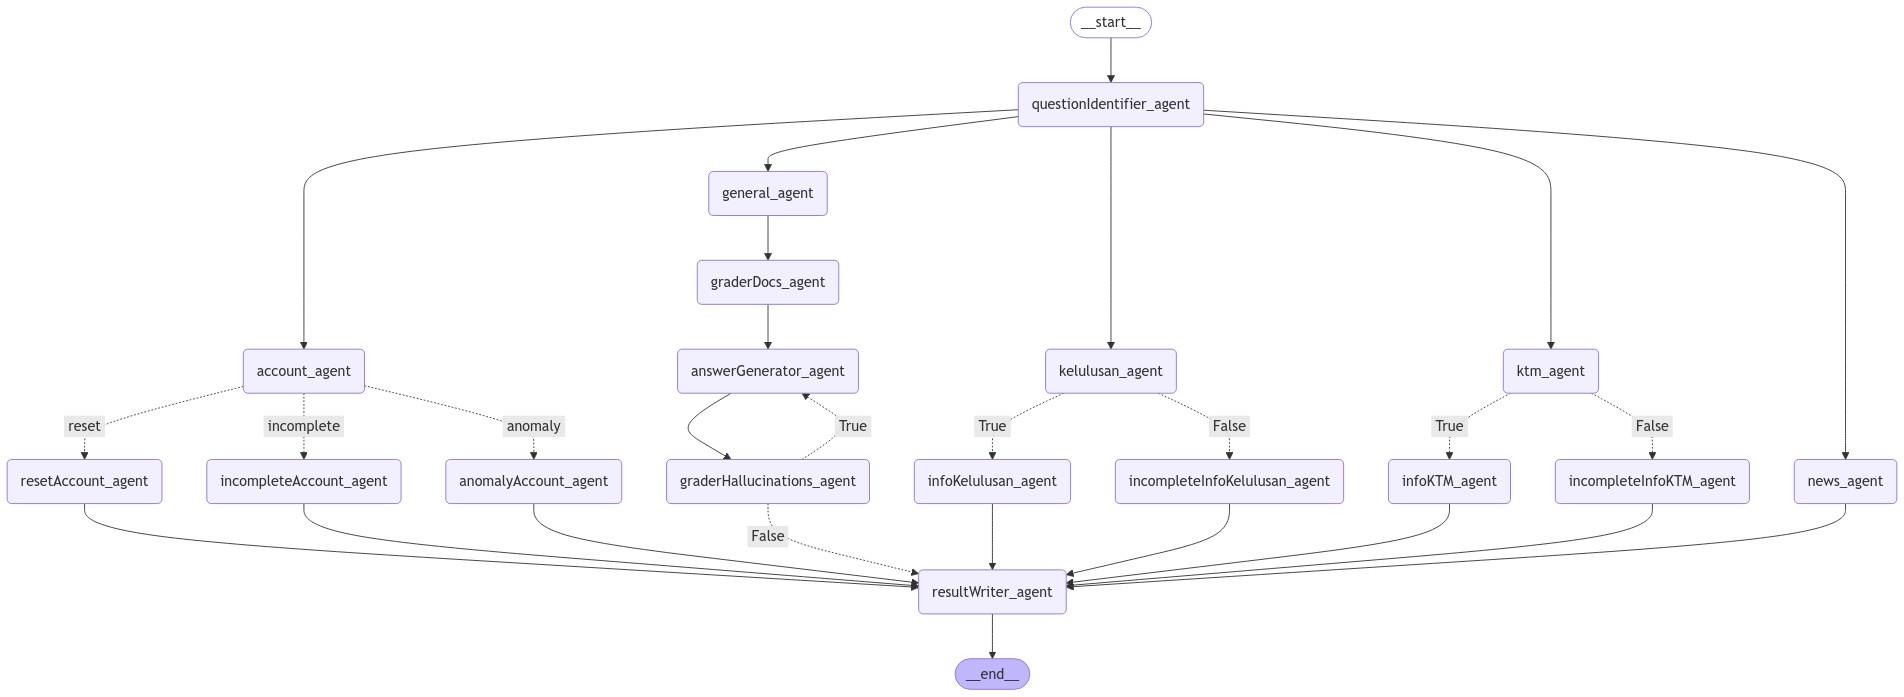
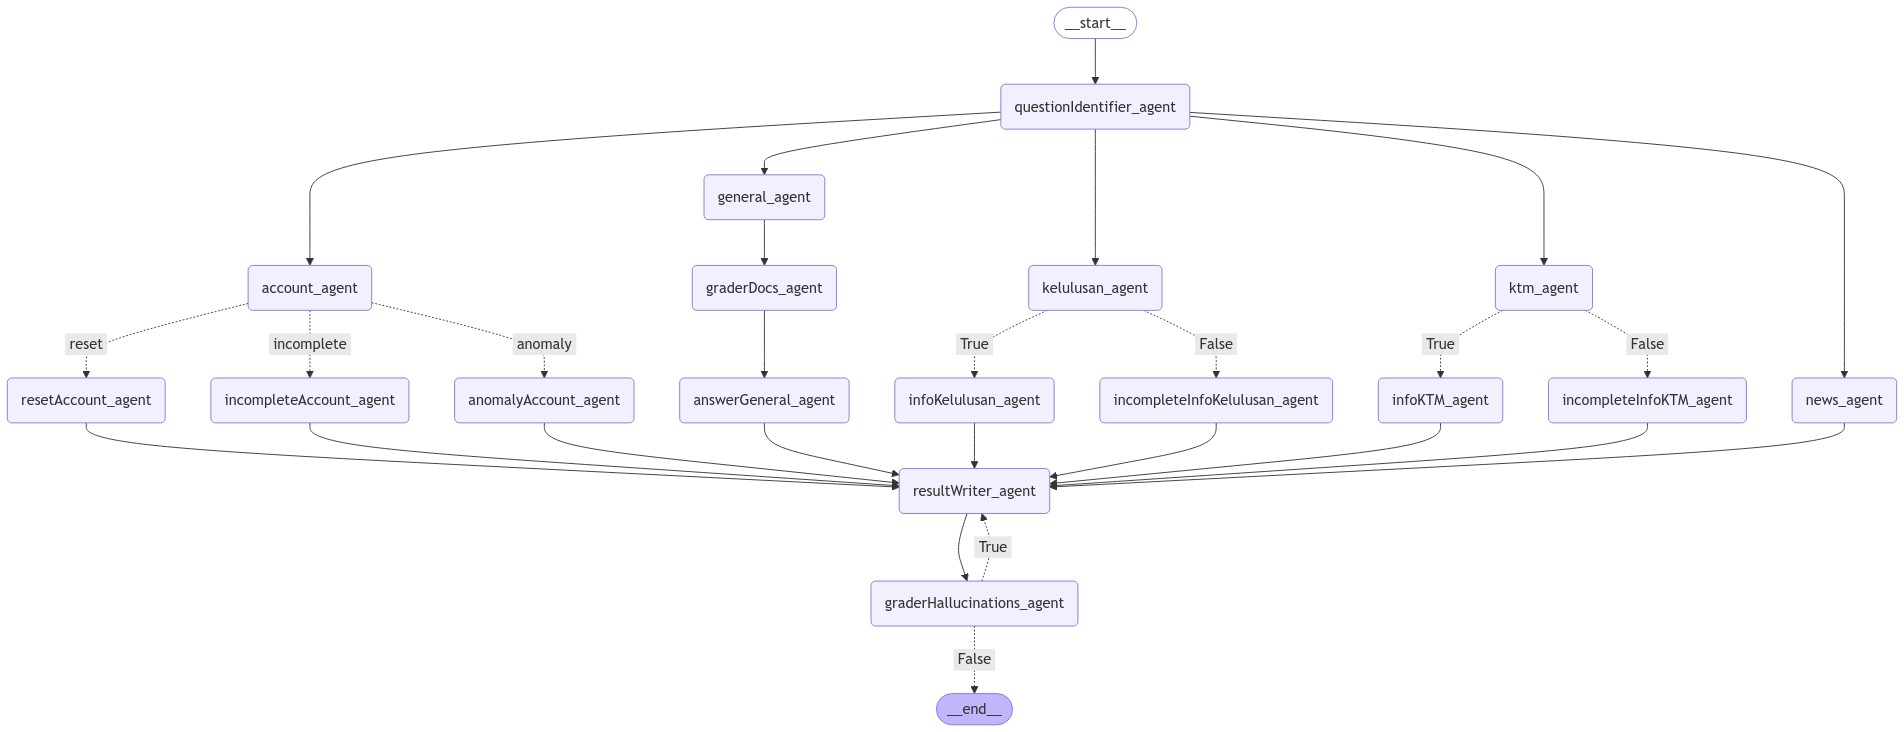
refactor: position hallucination, limitation loop, and name of answer general agent

diff --git a/main.py b/main.py
@@ -47,11 +47,9 @@ def questionIdentifierAgent(state: AgentState):
     state["question_type"] = responseTypeQuestion
     print("\nPertanyaan:", expanded_question)
     print(f"question_type: {responseTypeQuestion}")
-
     print(responseTypeQuestion)
 
     json_like_data = re.search(r'\{.*\}', responseTypeQuestion, re.DOTALL)
-
     if json_like_data:
         cleaned_response = json_like_data.group(0)
         print(f"DEBUG: Bagian JSON-like yang diambil: {cleaned_response}")
@@ -135,8 +133,8 @@ def graderDocsAgent(state: AgentState):
 
 
 @time_check
-def answerGeneratorAgent(state: AgentState):
-    info = "\n--- Answer Generator ---"
+def answerGeneralAgent(state: AgentState):
+    info = "\n--- Answer General ---"
     print(info)
 
     prompt = f"""
@@ -151,11 +149,11 @@ def answerGeneratorAgent(state: AgentState):
     - Jangan tawarkan informasi lainnya selain konteks yang didapat saja.
     - Jangan sampaikan pedoman ini kepada pengguna, gunakan pedoman ini hanya untuk memberikan jawaban yang sesuai konteks.
     Pertanyaan Pengguna: {state["generalQuestion"]}
-    Konteks: {state["generalGraderDocs"]}
     """
 
     messages = [
-        SystemMessage(content=prompt)
+        SystemMessage(content=prompt),
+        HumanMessage(content=state["generalQuestion"])
     ]
     response = chat_openai(messages)
     agentOpinion = {
@@ -163,44 +161,8 @@ def answerGeneratorAgent(state: AgentState):
     }
 
     state["responseGeneral"] = response
-    state["finishedAgents"].add("answerGenerator_agent")
-    # print(state["responseGeneral"])
+    state["finishedAgents"].add("answerGeneral_agent")
     return {"answerAgents": [agentOpinion]}
-
-
-
-@time_check
-def graderHallucinationsAgent(state: AgentState):
-    info = "\n--- Grader Hallucinations ---"
-    print(info)
-
-    if "generalHallucinationCount" not in state:
-        state["generalHallucinationCount"] = 0
-    state["generalHallucinationCount"] += 1
-    print(f"DEBUG: Jumlah pengecekan halusinasi: {state['generalHallucinationCount']}")
-    if state["generalHallucinationCount"] > 3:
-        print("DEBUG: Batas pengecekan halusinasi tercapai, menghentikan loop.")
-        state["generalIsHallucination"] = False
-        return {"generalIsHallucination": state["generalIsHallucination"]}
-
-    prompt = f"""
-    Anda adalah seorang penilai dari OPINI dengan FAKTA.
-    Berikan nilai "false" hanya jika OPINI ada kaitannya dengan FAKTA atau berikan nilai "true" hanya jika OPINI tidak ada kaitannya dengan FAKTA.
-    Harap cermat dalam menilai, karena ini akan sangat bergantung pada jawaban Anda.
-    - OPINI: {state["answerAgents"]}
-    - FAKTA: {state["generalGraderDocs"]}
-    """
-
-    messages = [
-        SystemMessage(content=prompt)
-    ]
-    response = chat_openai(messages).strip().lower()
-    is_hallucination = response == "true"
-
-    state["generalIsHallucination"] = is_hallucination
-    state["finishedAgents"].add("graderHallucinations_agent")
-    print(f"Apakah hasil halusinasi? {is_hallucination}")
-    return {"generalIsHallucination": state["generalIsHallucination"]}
 
 
 
@@ -244,7 +206,7 @@ def accountAgent(state: AgentState):
         Ada 3 konteks pertanyaan yang diajukan:
         - RESET - Hanya jika terdapat email dengan domain "@undiksha.ac.id" atau "@student.undiksha.ac.id" dan terdapat informasi mengenai status sudah login di email/gmail/google/hp/laptop/komputer (email dan status).
         - INCOMPLETE - Hanya jika tidak terdapat email dengan domain "@undiksha.ac.id" atau "@student.undiksha.ac.id" atau tidak terdapat informasi mengenai status sudah login di email/gmail/google/hp/laptop/komputer (email atau status).
-        - ANOMALY - Hanya jika lupa email dan tidak mengetahui status login dengan jelas.
+        - ANOMALY - Hanya jika lupa email, tidak mengetahui status login dengan jelas, dan hanya jika ingin reset atau lupa akun Google nya.
         Hati-hati dengan domain email yang serupa atau mirip, pastikan benar-benar sesuai.
         Hasilkan hanya 1 kata yang paling sesuai (RESET, INCOMPLETE, ANOMALY).
     """
@@ -372,7 +334,7 @@ def anomalyAccountAgent(state: AgentState):
     prompt = f"""
         Anda adalah seorang pengirim pesan informasi Undiksha.
         Tugas Anda untuk memberitahu pengguna bahwa:
-        Mohon maaf, pengajuan proses mengenai akun SSO E-Ganesha Undiksha Anda terdapat anomaly!
+        Mohon maaf, pengajuan proses mengenai akun SSO E-Ganesha atau Google Undiksha Anda terdapat anomaly!
         Berikut petunjuk untuk disampaikan kepada pengguna berdasarkan informasi dari akun pengguna:
         - Silahkan datang langsung ke Kantor UPA TIK Undiksha untuk memproses akun Anda.
         - Atau cek pada kontak berikut: https://upttik.undiksha.ac.id/kontak-kami
@@ -452,7 +414,6 @@ def incompleteInfoKelulusanAgent(state: AgentState):
 
     state["finishedAgents"].add("incompleteInfoKelulusan_agent")
     state["responseIncompleteInfoKelulusan"] = response
-    # print(state["responseIncompleteInfoKelulusan"])
     return {"answerAgents": [agentOpinion]}
 
 
@@ -501,7 +462,6 @@ def infoKelulusanAgent(state: AgentState):
 
     state["finishedAgents"].add("infoKelulusan_agent")
     state["responseKelulusan"] = response
-    # print(state["responseKelulusan"])
     return {"answerAgents": [agentOpinion]}
 
 
@@ -564,7 +524,6 @@ def incompleteInfoKTMAgent(state: AgentState):
 
     state["finishedAgents"].add("incompleteInfoKTM_agent")
     state["responseIncompleteNim"] = response
-    # print(state["responseIncompleteNim"])
     return {"answerAgents": [agentOpinion]}
 
 
@@ -591,8 +550,47 @@ def infoKTMAgent(state: AgentState):
 
     state["finishedAgents"].add("infoKTM_agent")
     state["responseKTM"] = response
-    # print(state["responseKTM"])
     return {"answerAgents": [agentOpinion]}
+
+
+
+@time_check
+def graderHallucinationsAgent(state: AgentState):
+    info = "\n--- Grader Hallucinations ---"
+    print(info)
+
+    if "responseFinal" not in state:
+        state["responseFinal"] = ""
+    print("\n\n\nINI DEBUG FINAL::::", state["responseFinal"])
+
+    if "generalHallucinationCount" not in state:
+        state["generalHallucinationCount"] = 0
+
+    prompt = f"""
+    Anda adalah seorang penilai dari OPINI dengan FAKTA.
+    Berikan nilai "false" hanya jika OPINI ada kaitannya dengan FAKTA atau berikan nilai "true" hanya jika OPINI tidak ada kaitannya dengan FAKTA.
+    Harap cermat dalam menilai, karena ini akan sangat bergantung pada jawaban Anda.
+    - OPINI: {state["responseFinal"]}
+    - FAKTA: {state["answerAgents"]}
+    """
+
+    messages = [
+        SystemMessage(content=prompt)
+    ]
+    response = chat_openai(messages).strip().lower()
+    is_hallucination = response == "true"
+
+    state["isHallucination"] = is_hallucination
+    if is_hallucination:
+        state["generalHallucinationCount"] += 1
+    else:
+        state["generalHallucinationCount"] = 0
+
+    state["isHallucination"] = is_hallucination
+    state["finishedAgents"].add("graderHallucinations_agent")
+    print(f"Apakah hasil halusinasi? {is_hallucination}")
+    print(f"Jumlah pengecekan halusinasi berturut-turut: {state['generalHallucinationCount']}")
+    return {"isHallucination": state["isHallucination"], "generalHallucinationCount": state["generalHallucinationCount"]}
 
 
 
@@ -601,7 +599,7 @@ def resultWriterAgent(state: AgentState):
     expected_agents_count = len(state["finishedAgents"])
     total_agents = 0
     if "general_agent" in state["finishedAgents"]:
-        total_agents =+ 3
+        total_agents += 3
     if "news_agent" in state["finishedAgents"]:
         total_agents += 1
     if "account_agent" in state["finishedAgents"]:
@@ -623,6 +621,7 @@ def resultWriterAgent(state: AgentState):
 
     prompt = f"""
         Berikut pedoman yang harus diikuti untuk menulis ulang informasi:
+        - Awali dengan "Salam Harmoni🙏"
         - Berikan informasi secara lengkap dan jelas apa adanya sesuai informasi yang diberikan.
         - Jangan tawarkan informasi lainnya selain konteks yang didapat saja.
         Berikut adalah informasinya:
@@ -635,8 +634,6 @@ def resultWriterAgent(state: AgentState):
     response = chat_openai(messages)
 
     state["responseFinal"] = response
-    # print(state["answerAgents"])
-    # print(state["responseFinal"])
     return {"responseFinal": state["responseFinal"]}
 
 
@@ -653,19 +650,11 @@ def build_graph(question):
     if "general_agent" in context:
         workflow.add_node("general_agent", generalAgent)
         workflow.add_node("graderDocs_agent", graderDocsAgent)
-        workflow.add_node("answerGenerator_agent", answerGeneratorAgent)
-        workflow.add_node("graderHallucinations_agent", graderHallucinationsAgent)
+        workflow.add_node("answerGeneral_agent", answerGeneralAgent)
         workflow.add_edge("questionIdentifier_agent", "general_agent")
         workflow.add_edge("general_agent", "graderDocs_agent")
-        workflow.add_edge("graderDocs_agent", "answerGenerator_agent")
-        workflow.add_edge("answerGenerator_agent", "graderHallucinations_agent")
-        workflow.add_conditional_edges(
-            "graderHallucinations_agent",
-            lambda state: state["generalIsHallucination"], {
-                True: "answerGenerator_agent",
-                False: "resultWriter_agent",
-            }
-        )
+        workflow.add_edge("graderDocs_agent", "answerGeneral_agent")
+        workflow.add_edge("answerGeneral_agent", "resultWriter_agent")
 
     if "news_agent" in context:
         workflow.add_node("news_agent", newsAgent)
@@ -723,21 +712,37 @@ def build_graph(question):
         workflow.add_edge("incompleteInfoKTM_agent", "resultWriter_agent")
         workflow.add_edge("infoKTM_agent", "resultWriter_agent")
 
-    workflow.add_edge("resultWriter_agent", END)
+    workflow.add_node("graderHallucinations_agent", graderHallucinationsAgent)
+    workflow.add_edge("resultWriter_agent", "graderHallucinations_agent")
+    workflow.add_conditional_edges(
+        "graderHallucinations_agent",
+        lambda state: state["isHallucination"] and state["generalHallucinationCount"] < 2 if state["isHallucination"] else False,
+        {
+            True: "resultWriter_agent",
+            False: END,
+        }
+    )
+
     graph = workflow.compile()
     result = graph.invoke({"question": question})
     answers = result.get("responseFinal", [])
     contexts = result.get("answerAgents", "")
-
     get_graph_image(graph)
-
     return contexts, answers
 
 
+
 # DEBUG QUERY EXAMPLES
-# build_graph("Siapa rektor undiksha? Berita terbaru. Saya lupa password sso email@undiksha.ac.id sudah ada akun google di hp. Cetak ktm 2115101014. Cek kelulusan nomor pendaftaran 3242000006 tanggal lahir 2005-11-30.")
-# build_graph("Siapa rektor undiksha?")
-# build_graph("Berita terbaru.")
-# build_graph("Saya lupa password sso email@undiksha.ac.id sudah ada akun google di hp. Cetak ktm 2115101014. Cek kelulusan nomor pendaftaran 3242000006 tanggal lahir 2005-11-30.")
-# build_graph("Cetak ktm 2115101014. Cek kelulusan nomor pendaftaran 3242000006 tanggal lahir 2005-11-30.")
-# build_graph("Cek kelulusan nomor pendaftaran 3242000006 tanggal lahir 2005-11-30.")
+# build_graph("Siapa rektor undiksha? Berita terbaru. Saya lupa password sso email@undiksha.ac.id sudah ada akun google di hp. Cetak ktm 2115101014. Cek kelulusan nomor pendaftaran 3242000006 tanggal lahir 2005-11-30.")     # DEBUG AGENT: GENERAL, NEWS, ACCOUNT, KTM, KELULUSAN
+# build_graph("Siapa rektor undiksha? Berita terbaru. Saya lupa password sso email@undiksha.ac.id sudah ada akun google di hp. Cetak ktm 2115101014.")                                                                          # DEBUG AGENT: GENERAL, NEWS, ACCOUNT, KTM
+# build_graph("Siapa rektor undiksha? Berita terbaru. Saya lupa password sso email@undiksha.ac.id sudah ada akun google di hp.")                                                                                                # DEBUG AGENT: GENERAL, NEWS, ACCOUNT
+# build_graph("Siapa rektor undiksha? Berita terbaru.")                                                                                                                                                                         # DEBUG AGENT: GENERAL, NEWS
+# build_graph("Siapa rektor undiksha?")                                                                                                                                                                                         # DEBUG AGENT: GENERAL
+# build_graph("Berita terbaru.")                                                                                                                                                                                                # DEBUG AGENT: NEWS
+# build_graph("Saya lupa password sso email@undiksha.ac.id sudah ada akun google di hp.")                                                                                                                                       # DEBUG AGENT: ACCOUNT-RESET
+# build_graph("Saya lupa password sso email@undiksha.ac.id")                                                                                                                                                                    # DEBUG AGENT: ACCOUNT-INCOMPLETE
+# build_graph("Saya ingin reset password Google")                                                                                                                                                                               # DEBUG AGENT: ACCOUNT-ANOMALY
+# build_graph("Cetak ktm 2115101014.")                                                                                                                                                                                          # DEBUG AGENT: KTM-INFO
+# build_graph("Cetak ktm")                                                                                                                                                                                                      # DEBUG AGENT: KTM-INCOMPLETE
+# build_graph("Cek kelulusan nomor pendaftaran 3242000006 tanggal lahir 2005-11-30.")                                                                                                                                           # DEBUG AGENT: KELULUSAN-INFO
+# build_graph("Cek kelulusan")                                                                                                                                                                                                  # DEBUG AGENT: KELULUSAN-INCOMPLETE

diff --git a/utils/api_undiksha.py b/utils/api_undiksha.py
@@ -115,6 +115,7 @@ def show_kelulusan_pmb(state: AgentState):
         if e.response is not None:
             print("Detail kesalahan:", e.response.text)
         raise SystemExit(f"Terjadi kesalahan saat mengakses API kelulusan: {e}")
+        # return "Maaf sedang terjadi kesalahan pada sistem."
 
 
 

diff --git a/utils/agent_state.py b/utils/agent_state.py
@@ -14,7 +14,7 @@ class AgentState(TypedDict):
     generalContext: str
     generalGraderDocs: str
     generalHallucinationCount: int
-    generalIsHallucination: str
+    isHallucination: str
     responseGeneral: str
     checkKelulusan: str
     noPendaftaran: str
